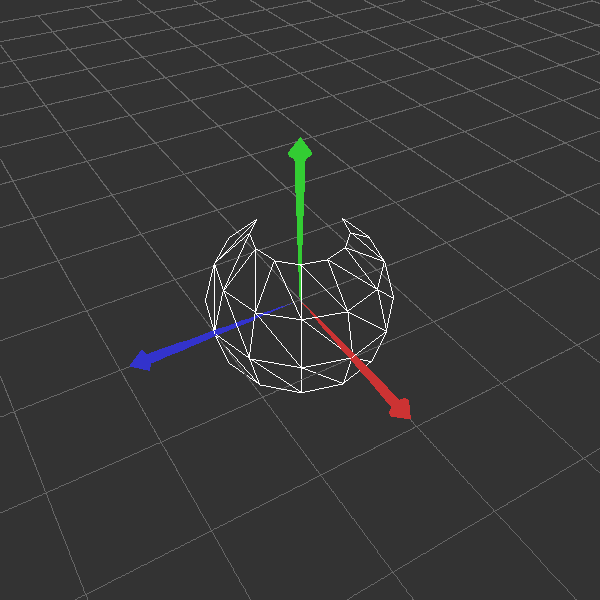
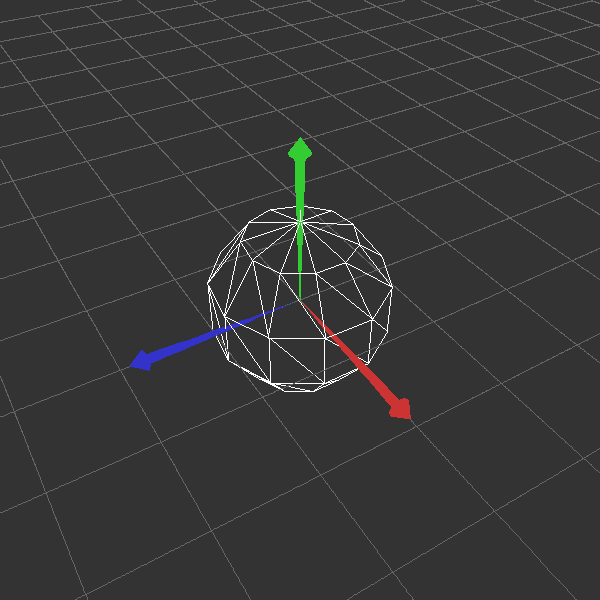
too many facets?

Changed region(s): [[0.33, 0.33, 0.66, 0.66], [0.6, 0.57, 0.63, 0.6]]

diff --git a/model/src/modeler/shape/Sphere.java b/model/src/modeler/shape/Sphere.java
@@ -31,7 +31,7 @@ public class Sphere extends Shape {
 		int numFacets = generateFacets(flatnessTolerance);
 
 		Point3f[] vertices = generateVertices(numFacets);
-		Vector3f[] normals = generateNormals(numFacets);
+		Vector3f[] normals = generateNormals(numFacets, vertices);
 		Point3i[] triangles = generateTriangles(numFacets);
 
 		//Print Result of Generating
@@ -92,6 +92,7 @@ public class Sphere extends Shape {
 	{
 		int numFacets = 6;
 		float flatness = 99999999f;
+		//loop through until we find a numFacets that produces flatness greater than the flatnessTolerance. use one step less than that (greatest that doesnt exceed)
 		while (flatness > flatnessTolerance) 
 		{
 			//flatness = 1 - cos(angle)
@@ -115,8 +116,8 @@ public class Sphere extends Shape {
 		int longitude = numFacets*2;	// left/right
 		Point3f[][] vertices2D = new Point3f[latitude][longitude];
 
-		float latAngleIncrement = 180.0f / (latitude - 1);
-    	float lonAngleIncrement = 360.0f / longitude;
+		float latAngleIncrement = 180.0f / (latitude-1);
+    	float lonAngleIncrement = 360.0f / (longitude-1);
 		
 		for (int i = 0; i < latitude; i++) {
 			//calc latitude angle from -90 to 90
@@ -143,7 +144,7 @@ public class Sphere extends Shape {
             }
         }
 
-		// test output
+		//test output
 		// for (int i = 0; i < vertices2D.length; i++) {
 		// 	for (int j = 0; j < vertices2D[i].length; j++) {
 		// 		System.out.print("(" + vertices2D[i][j].x + ", " + vertices2D[i][j].y + ", " + vertices2D[i][j].z + ") ");
@@ -155,11 +156,9 @@ public class Sphere extends Shape {
 		return vertices;
 	}
 
-	Vector3f[] generateNormals(int numFacets)
+	Vector3f[] generateNormals(int numFacets, Point3f[] vertices)
 	{
-		
-		Point3f[] vertices = generateVertices(numFacets);
-        Vector3f[] normals = new Vector3f[vertices.length];
+		Vector3f[] normals = new Vector3f[vertices.length];
 
         for (int i = 0; i < vertices.length; i++) {
             normals[i] = new Vector3f(vertices[i]);
